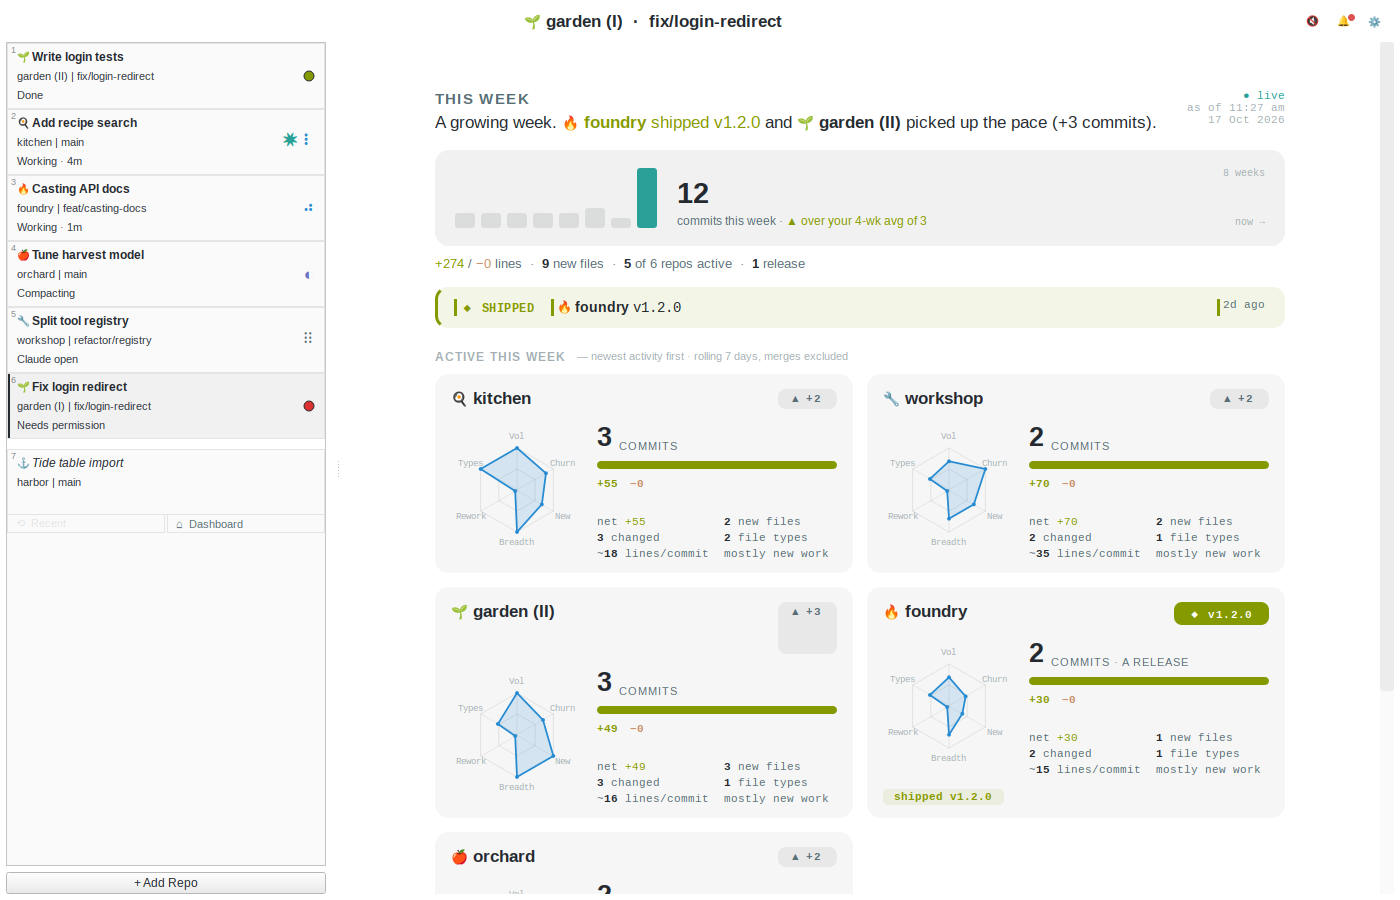
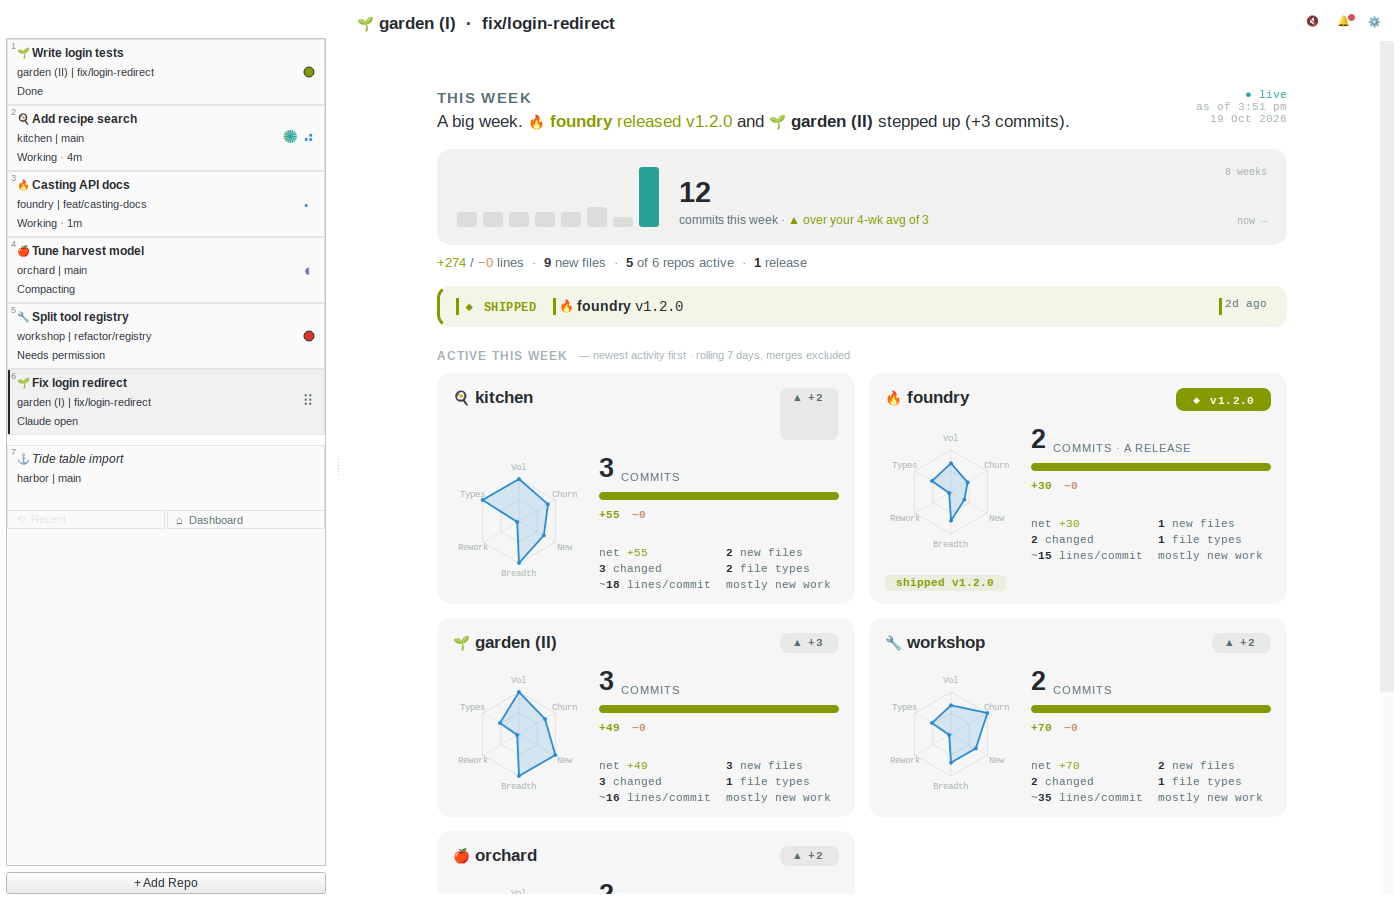
docs(readme): screenshots with the current-row highlight
The main window, sidebar and dashboard shots predate the accent shape,
so they no longer matched the app.

Claude-Session: https://claude.ai/code/session_01WYwLbsgPkLmLempVXEs9sz

diff --git a/README.md b/README.md
@@ -21,7 +21,7 @@ installs hooks that light a status badge on each row, so you can see which
 session needs you.
 
 <p align="center">
-  <img alt="ccwork window: a sidebar of repo rows next to a Claude Code session that just started in ~/code/garden; that row shows Claude open" src="docs/images/ccwork-main.png" width="880">
+  <img alt="ccwork window: a sidebar of repo rows next to a Claude Code session that just started in ~/code/garden; that row is tinted blue and joined to the terminal by a blue bridge, frame and title tab" src="docs/images/ccwork-main.png" width="880">
 </p>
 
 ## What it does
@@ -34,6 +34,9 @@ session needs you.
 
 - **A badge per row.** Red: needs permission. Orange: needs an answer.
   Magenta: API or account error. Yellow: usage limit. Green: done.
+- **The current repo stands out.** Its row, a bridge across to the
+  terminal, the terminal frame and the title tab share one color. The
+  color follows the row number: red, orange, yellow, and on down the list.
 - **Three-line rows.** A task title, then `repo | branch`, then Claude's
   state in words: `Working · 2m`, `Compacting`, `Claude open`.
 - **A bell for the whole window.** The 🔔 gets a dot when any row gets a
